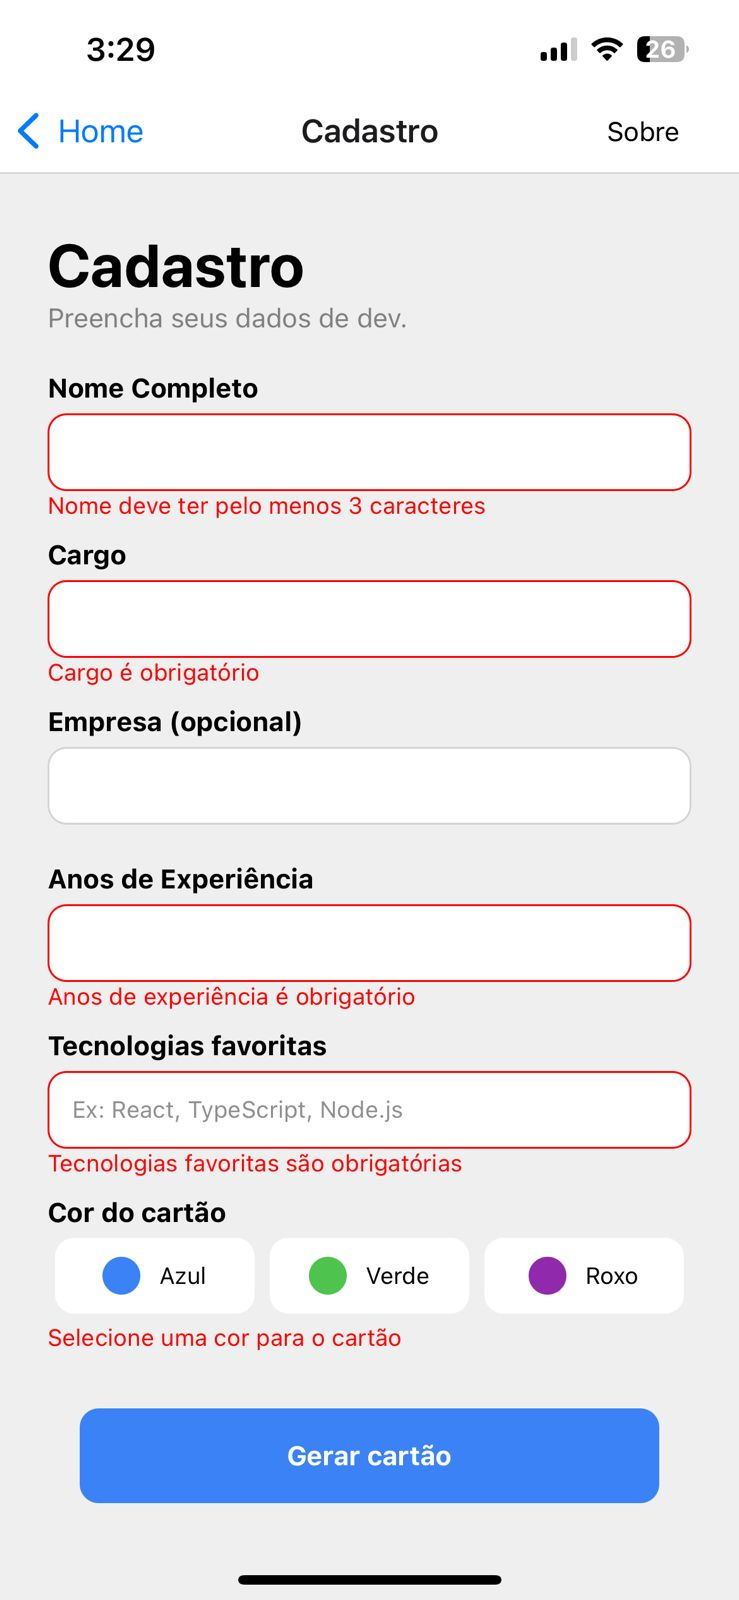
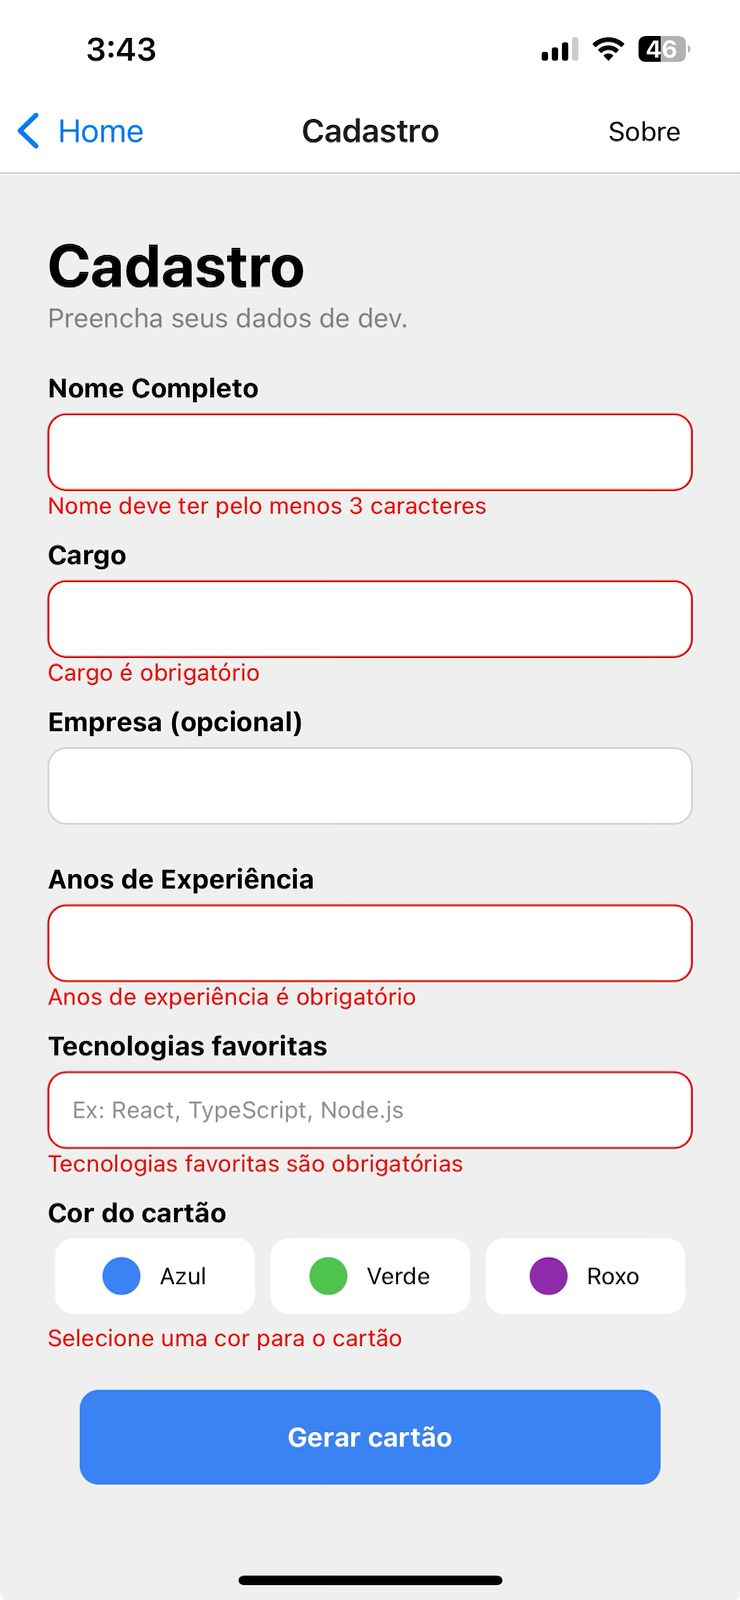
readme

diff --git a/src/app/cadastro.tsx b/src/app/cadastro.tsx
@@ -178,7 +178,7 @@ export default function Cadastro() {
         </TouchableOpacity>
 
       </View>
-      {erroCor ? <Text style={styles.erroTexto}>{erroCor}</Text> : null}
+      <Text style={erroCor ? styles.erroTexto : styles.erroTextoHidden}>{erroCor || ' '}</Text>
     </View>
 
     <View style={styles.buttonWrapper}>

diff --git a/src/styles/cadastro.ts b/src/styles/cadastro.ts
@@ -79,7 +79,7 @@ export const styles = StyleSheet.create({
     },
     buttonWrapper: {
         width: '100%',
-        marginTop: 20,
+        marginTop: 10,
     },
     button: {
       justifyContent: 'center',
